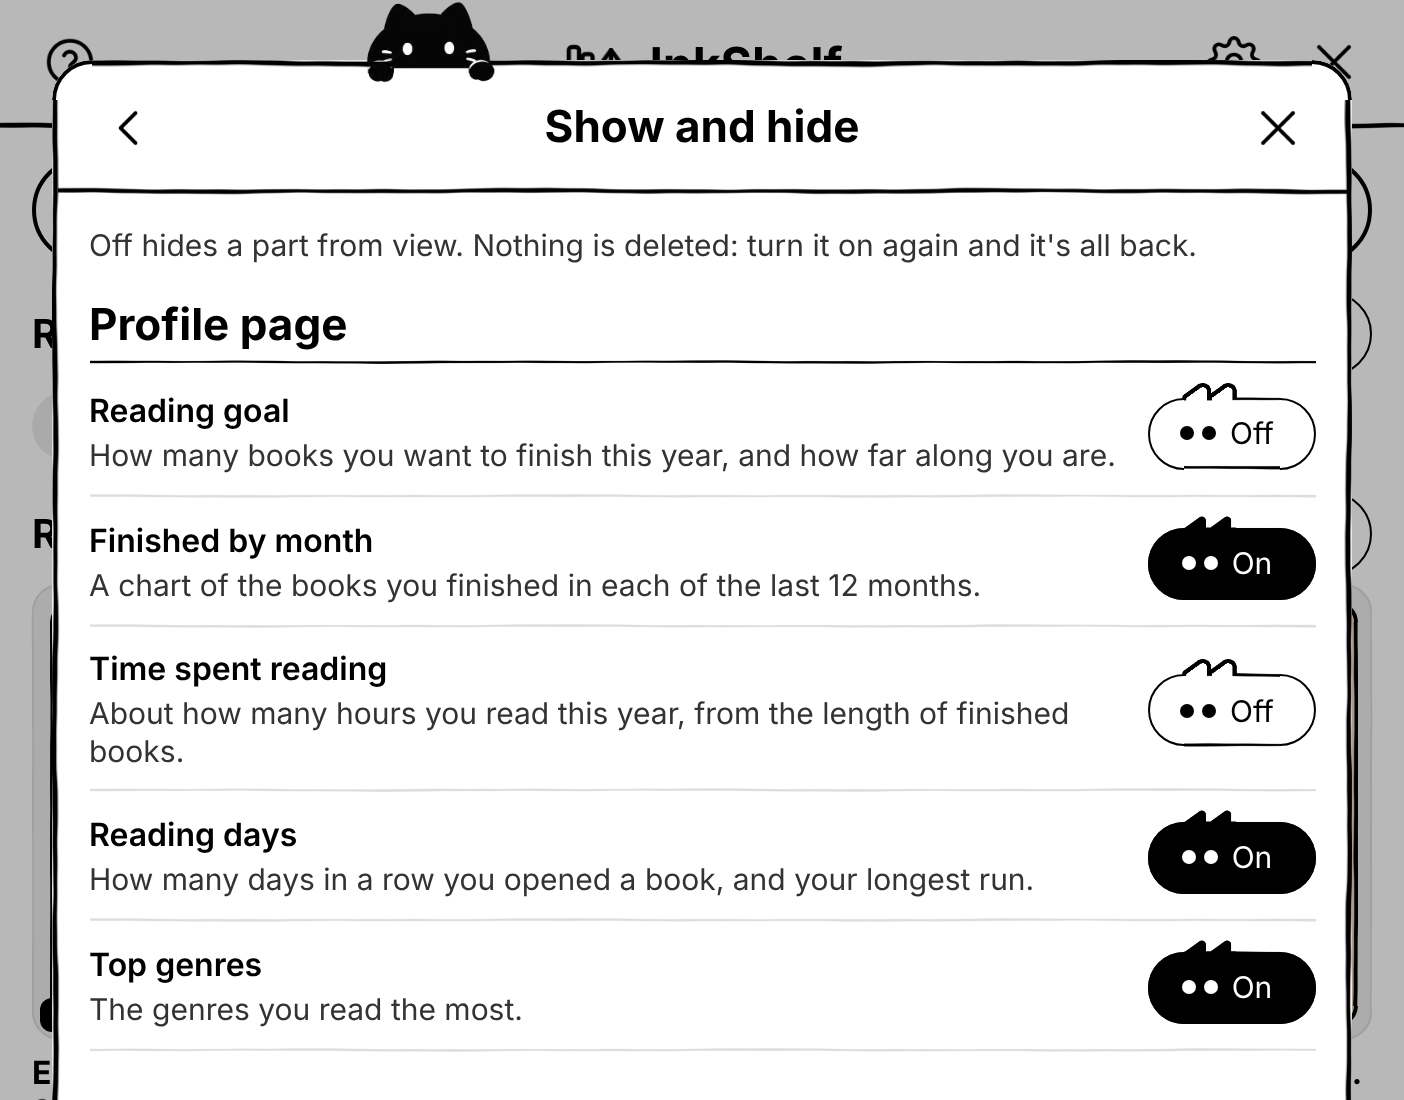
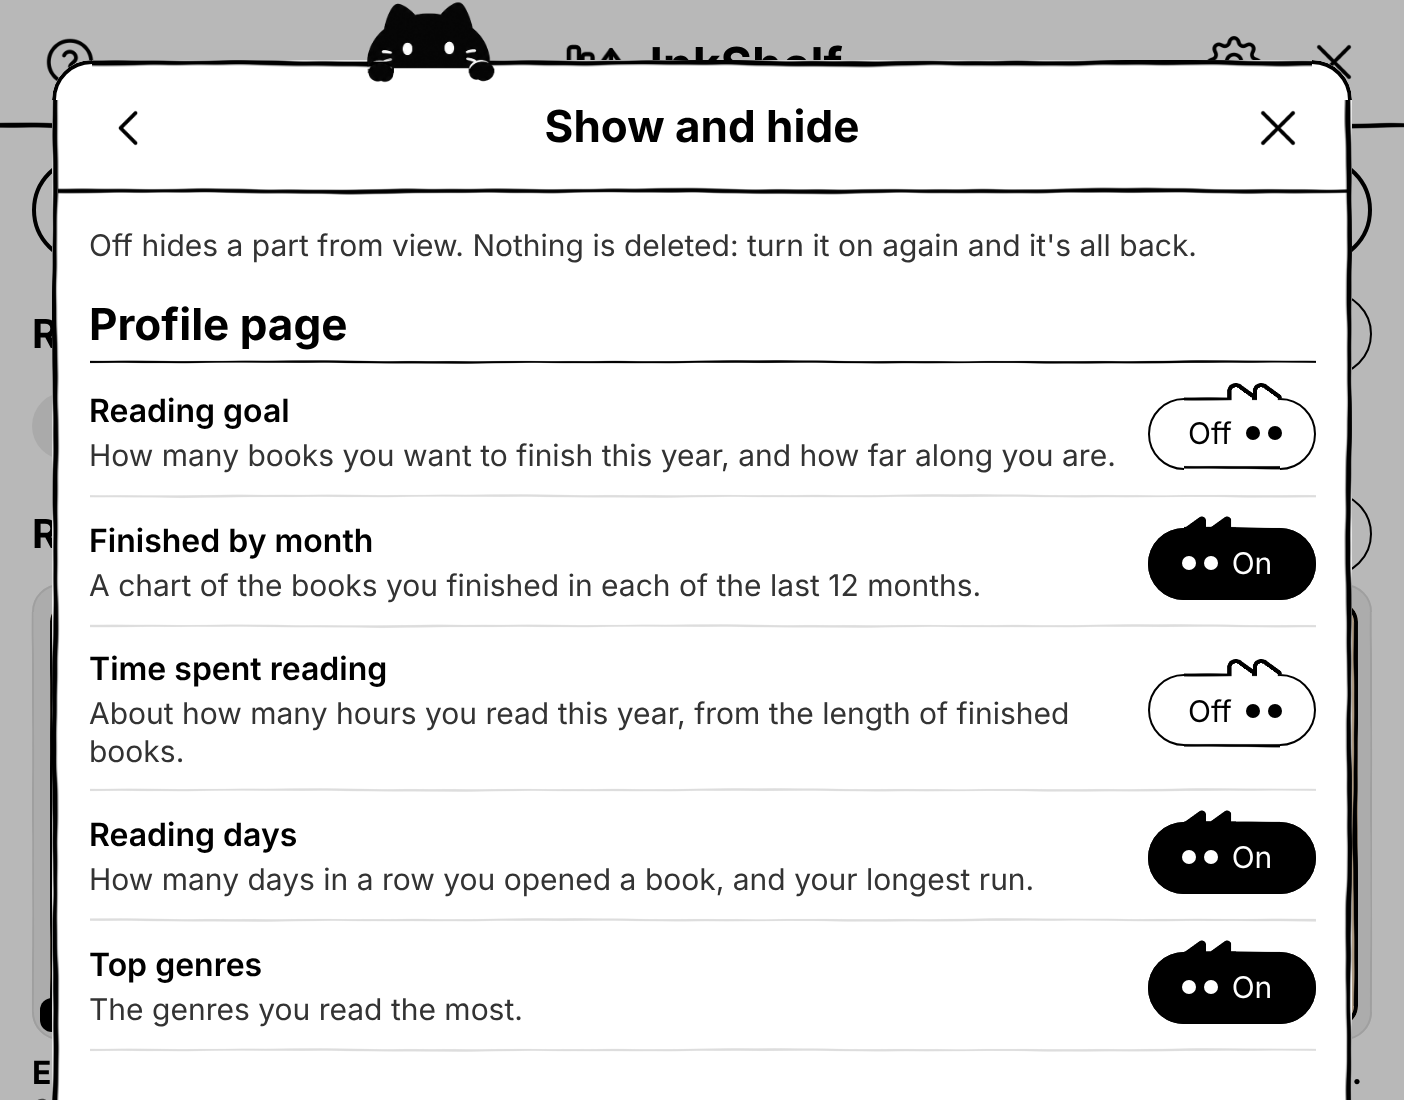
Cats look: the Off cat faces right
Claude-Session: https://claude.ai/code/session_01X56ddDHNWUKJn2BBuoFg9X

diff --git a/App.tsx b/App.tsx
@@ -285,19 +285,20 @@ function IconBtn({name, onPress, label, dark, bare, size, iconSize, disabled, st
 
 function Pill({label, onPress, active, small, width}: {label: string; onPress?: () => void; active?: boolean; small?: boolean; width?: number}) {
   return (
-    <Pressable onPress={onPress} hitSlop={px(4)} style={[st.pill, small && st.pillSmall, active && st.pillActive, CAT && {marginTop: px(5), marginBottom: px(3), paddingLeft: px(6), overflow: 'visible'}, width ? {width, alignItems: 'center', marginRight: 0, height: px(36), justifyContent: 'center'} : null]}>
+    <Pressable onPress={onPress} hitSlop={px(4)} style={[st.pill, small && st.pillSmall, active && st.pillActive, CAT && {marginTop: px(5), marginBottom: px(3), overflow: 'visible'}, CAT && (active ? {paddingLeft: px(6)} : {paddingRight: px(6)}), width ? {width, alignItems: 'center', marginRight: 0, height: px(36), justifyContent: 'center'} : null]}>
       {/* the Cats look: every toggle is a little cat. On: a black cat with white eyes (where the tick was). Off: the same cat in outline. */}
       {CAT ? (
         active ? (
           <Image source={TOGGLE_EARS} style={{position: 'absolute', zIndex: 2, left: width ? px(14) : px(5), top: -px(7), width: px(30), height: px(8)}} resizeMode="stretch" />
         ) : (
-          <Image source={TOGGLE_EARS_OFF} style={{position: 'absolute', zIndex: 2, left: (width ? px(14) : px(5)) - px(2.37), top: -px(9.25), width: px(34.7), height: px(12.75)}} resizeMode="stretch" />
+          <Image source={TOGGLE_EARS_OFF} style={{position: 'absolute', zIndex: 2, right: (width ? px(14) : px(5)) - px(2.37), top: -px(9.25), width: px(34.7), height: px(12.75), transform: [{scaleX: -1}]}} resizeMode="stretch" />
         )
       ) : null}
       {CAT ? (
-        <RNView style={{flexDirection: 'row', alignItems: 'center'}}>
+        // Off faces the other way: words first, then the eyes, ears on the right
+        <RNView style={{flexDirection: active ? 'row' : 'row-reverse', alignItems: 'center'}}>
           <RNView style={[st.catEye, !active && {backgroundColor: BLACK}]} />
-          <RNView style={[st.catEye, !active && {backgroundColor: BLACK}, {marginLeft: px(4), marginRight: px(7)}]} />
+          <RNView style={[st.catEye, !active && {backgroundColor: BLACK}, active ? {marginLeft: px(4), marginRight: px(7)} : {marginRight: px(4), marginLeft: px(7)}]} />
           <Text style={[st.pillText, small && {fontSize: px(14)}, active && {color: '#ffffff'}]}>{label.replace(/^✓\s*/, '')}</Text>
         </RNView>
       ) : (
